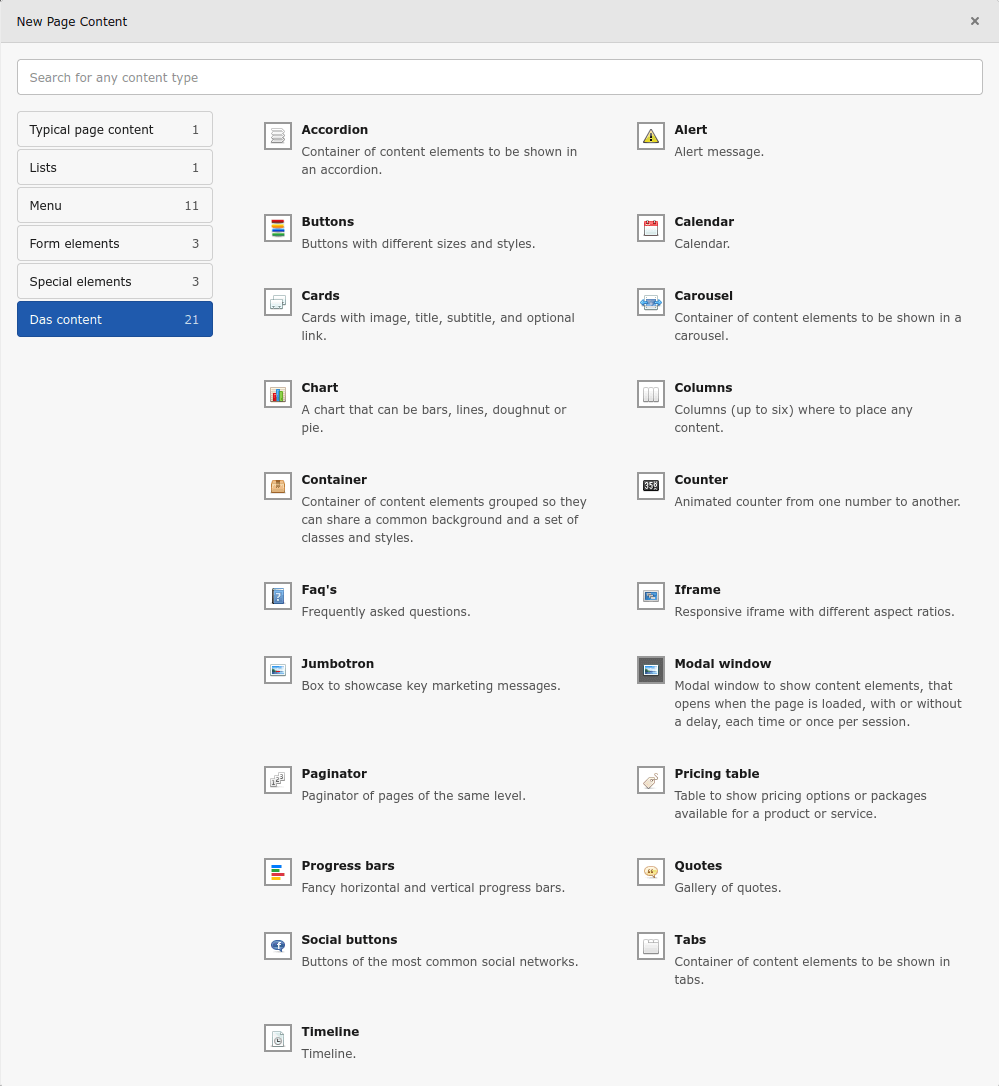
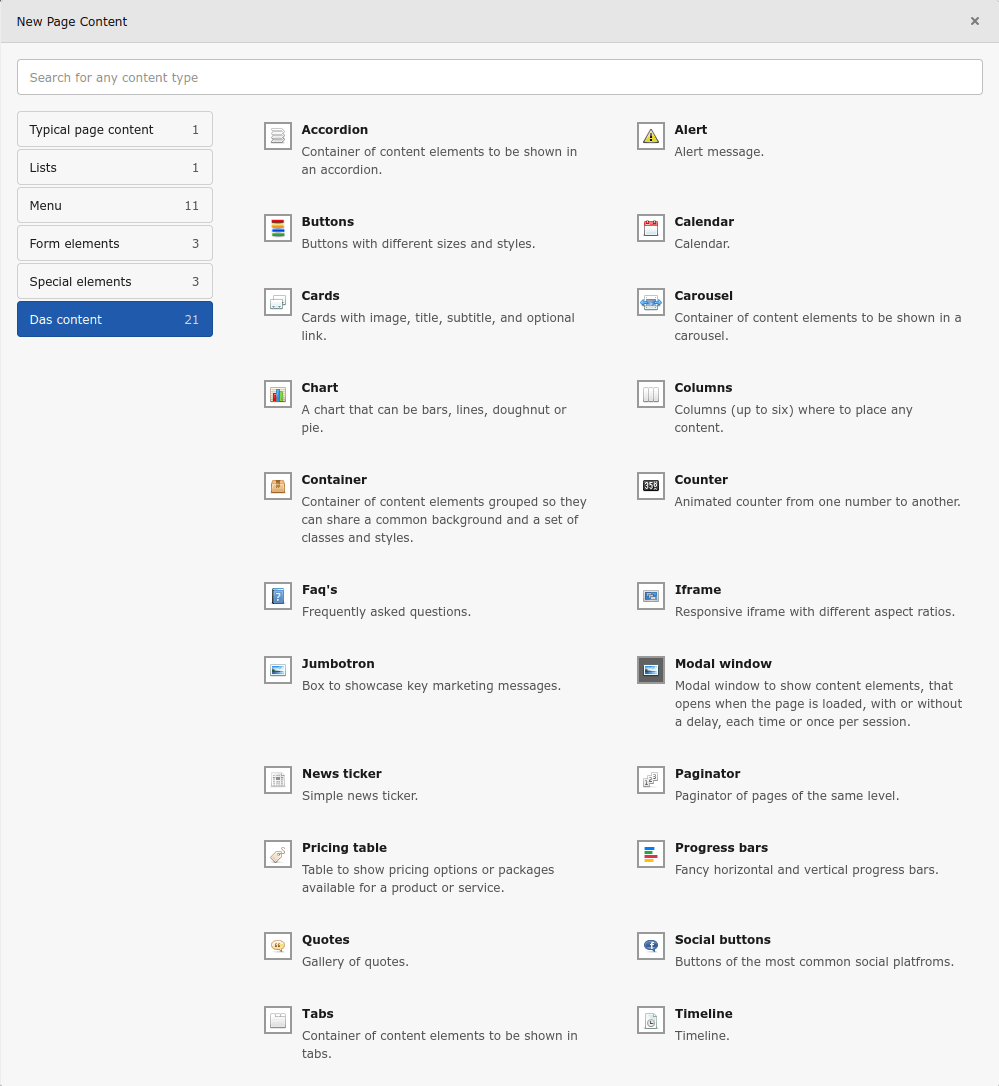
[TASK] News ticker content element

diff --git a/Resources/Private/Templates/Content/NewsTicker.html b/Resources/Private/Templates/Content/NewsTicker.html
@@ -1,0 +1,173 @@
+<f:layout name="Content" />
+
+<f:section name="Configuration">
+    <flux:form
+        id="NewsTiicker"
+        label="LLL:EXT:das/Resources/Private/Language/locallang_be.xlf:tt_content.newsticker"
+        description="LLL:EXT:das/Resources/Private/Language/locallang_be.xlf:tt_content.newsticker.description"
+    >
+        <flux:form.option.group
+            value="dasContent"
+        />
+        <flux:form.option.icon
+            value="EXT:das/Resources/Public/Icons/Content/NewsTicker.png"
+        />
+        <flux:field.select
+            name="layout"
+            label="LLL:EXT:das/Resources/Private/Language/locallang_be.xlf:layout"
+            items="{
+                0:{0: 'LLL:EXT:das/Resources/Private/Language/locallang_be.xlf:default', 1: '0'}
+            }"
+            requestUpdate="1"
+        />
+        <flux:field.select
+            name="transition"
+            label="LLL:EXT:das/Resources/Private/Language/locallang_be.xlf:tt_content.newsticker.transition"
+            items="{
+                0:{0: 'LLL:EXT:das/Resources/Private/Language/locallang_be.xlf:tt_content.newsticker.transition.0', 1: '0'},
+                1:{0: 'LLL:EXT:das/Resources/Private/Language/locallang_be.xlf:tt_content.newsticker.transition.1', 1: '1'}
+            }"
+            default=""
+            showIconTable="1"
+        />
+        <flux:field.input
+            name="interval"
+            label="LLL:EXT:das/Resources/Private/Language/locallang_be.xlf:tt_content.newsticker.interval"
+            size="3"
+            config="{eval: 'int', range: {lower: 5, upper: 20}, slider: {step: 1, width: 200}}"
+        />
+        <flux:field.select
+            name="default_color"
+            label="LLL:EXT:das/Resources/Private/Language/locallang_be.xlf:default_color"
+            items="{
+                0:{0: 'LLL:EXT:das/Resources/Private/Language/locallang_be.xlf:colors.primary', 1: 'primary', 2: 'EXT:das/Resources/Public/Images/Colors/bg_primary.svg'},
+                1:{0: 'LLL:EXT:das/Resources/Private/Language/locallang_be.xlf:colors.secondary', 1: 'secondary', 2: 'EXT:das/Resources/Public/Images/Colors/bg_secondary.svg'},
+                2:{0: 'LLL:EXT:das/Resources/Private/Language/locallang_be.xlf:colors.success', 1: 'success', 2: 'EXT:das/Resources/Public/Images/Colors/bg_success.svg'},
+                3:{0: 'LLL:EXT:das/Resources/Private/Language/locallang_be.xlf:colors.danger', 1: 'danger', 2: 'EXT:das/Resources/Public/Images/Colors/bg_danger.svg'},
+                4:{0: 'LLL:EXT:das/Resources/Private/Language/locallang_be.xlf:colors.warning', 1: 'warning', 2: 'EXT:das/Resources/Public/Images/Colors/bg_warning.svg'},
+                5:{0: 'LLL:EXT:das/Resources/Private/Language/locallang_be.xlf:colors.info', 1: 'info', 2: 'EXT:das/Resources/Public/Images/Colors/bg_info.svg'},
+                6:{0: 'LLL:EXT:das/Resources/Private/Language/locallang_be.xlf:colors.light', 1: 'light', 2: 'EXT:das/Resources/Public/Images/Colors/bg_light.svg'},
+                7:{0: 'LLL:EXT:das/Resources/Private/Language/locallang_be.xlf:colors.dark', 1: 'dark', 2: 'EXT:das/Resources/Public/Images/Colors/bg_dark.svg'}
+            }"
+            default=""
+            showIconTable="1"
+        />
+        <flux:form.sheet
+            name="itemstab"
+            label="LLL:EXT:das/Resources/Private/Language/locallang_be.xlf:tt_content.newsticker.news"
+        >
+            <flux:form.section
+                name="items"
+                label="LLL:EXT:das/Resources/Private/Language/locallang_be.xlf:tt_content.newsticker.news"
+            >
+                <flux:form.object
+                    name="item"
+                    label="LLL:EXT:das/Resources/Private/Language/locallang_be.xlf:tt_content.newsticker.news"
+                >
+                    <f:render partial="Content/Access" arguments="{_all}" />
+                    <flux:field.input
+                        name="header"
+                        label="LLL:EXT:das/Resources/Private/Language/locallang_be.xlf:tt_content.newsticker.header"
+                        required="1"
+                    />
+                    <flux:field.input
+                        name="date"
+                        label="LLL:EXT:das/Resources/Private/Language/locallang_be.xlf:tt_content.newsticker.date"
+                        config="{renderType: 'datetime', format: 'datetime'}"
+                        required="1"
+                    />
+                    <flux:field.text
+                        name="text"
+                        label="LLL:EXT:das/Resources/Private/Language/locallang_be.xlf:tt_content.newsticker.text"
+                        rows="2"
+                        required="1"
+                    />
+                    <flux:field.select
+                        name="color"
+                        label="LLL:EXT:das/Resources/Private/Language/locallang_be.xlf:color"
+                        items="{
+                            0:{0: 'LLL:EXT:das/Resources/Private/Language/locallang_be.xlf:default', 1: '', 2: 'EXT:das/Resources/Public/Images/Colors/bg_.svg'},
+                            1:{0: 'LLL:EXT:das/Resources/Private/Language/locallang_be.xlf:colors.primary', 1: 'primary', 2: 'EXT:das/Resources/Public/Images/Colors/bg_primary.svg'},
+                            2:{0: 'LLL:EXT:das/Resources/Private/Language/locallang_be.xlf:colors.secondary', 1: 'secondary', 2: 'EXT:das/Resources/Public/Images/Colors/bg_secondary.svg'},
+                            3:{0: 'LLL:EXT:das/Resources/Private/Language/locallang_be.xlf:colors.success', 1: 'success', 2: 'EXT:das/Resources/Public/Images/Colors/bg_success.svg'},
+                            4:{0: 'LLL:EXT:das/Resources/Private/Language/locallang_be.xlf:colors.danger', 1: 'danger', 2: 'EXT:das/Resources/Public/Images/Colors/bg_danger.svg'},
+                            5:{0: 'LLL:EXT:das/Resources/Private/Language/locallang_be.xlf:colors.warning', 1: 'warning', 2: 'EXT:das/Resources/Public/Images/Colors/bg_warning.svg'},
+                            6:{0: 'LLL:EXT:das/Resources/Private/Language/locallang_be.xlf:colors.info', 1: 'info', 2: 'EXT:das/Resources/Public/Images/Colors/bg_info.svg'},
+                            7:{0: 'LLL:EXT:das/Resources/Private/Language/locallang_be.xlf:colors.light', 1: 'light', 2: 'EXT:das/Resources/Public/Images/Colors/bg_light.svg'},
+                            8:{0: 'LLL:EXT:das/Resources/Private/Language/locallang_be.xlf:colors.dark', 1: 'dark', 2: 'EXT:das/Resources/Public/Images/Colors/bg_dark.svg'}
+                        }"
+                        showIconTable="1"
+                    />
+                    <flux:field.input
+                        name="link"
+                        label="LLL:EXT:das/Resources/Private/Language/locallang_be.xlf:tt_content.newsticker.link"
+                        config="{renderType: 'inputLink'}"
+                    />
+                </flux:form.object>
+            </flux:form.section>
+        </flux:form.sheet>
+    </flux:form>
+</f:section>
+
+<f:section name="Preview">
+    <table class="table table-condensed table-hover">
+        <tbody>
+            <tr>
+                <th>
+                    <f:translate key="LLL:EXT:das/Resources/Private/Language/locallang_be.xlf:layout" />
+                </th>
+                <td width="20%">
+                    <f:if condition="{layout} == 0">
+                        <f:then>
+                            <f:translate key="LLL:EXT:das/Resources/Private/Language/locallang_be.xlf:default" />
+                        </f:then>
+                        <f:else>
+                            <f:translate key="LLL:EXT:das/Resources/Private/Language/locallang_be.xlf:custom" />
+                        </f:else>
+                    </f:if>
+                </td>
+            </tr>
+            <tr>
+                <th>
+                    <f:translate key="LLL:EXT:das/Resources/Private/Language/locallang_be.xlf:default_color" />
+                </th>
+                <td>
+                    <f:image src="EXT:das/Resources/Public/Images/Colors/bg_{default_color}.svg" width="20" height="20" alt="{f:translate(key: 'LLL:EXT:das/Resources/Private/Language/locallang_be.xlf:colors.{default_color}')}" class="d-inline-block me-1 mb-1" />
+                </td>
+            </tr>
+            <tr>
+                <th>
+                    <f:translate key="LLL:EXT:das/Resources/Private/Language/locallang_be.xlf:tt_content.newsticker.transition" />
+                </th>
+                <td>
+                    <f:translate key="LLL:EXT:das/Resources/Private/Language/locallang_be.xlf:tt_content.newsticker.transition.{transition}" />
+                </td>
+            </tr>
+            <tr>
+                <th>
+                    <f:translate key="LLL:EXT:das/Resources/Private/Language/locallang_be.xlf:tt_content.newsticker.interval" />
+                </th>
+                <td>
+                    {interval}
+                </td>
+            </tr>
+            <tr>
+                <td colspan="2">
+                    <strong><f:translate key="LLL:EXT:das/Resources/Private/Language/locallang_be.xlf:tt_content.newsticker.newsticker" /></strong>
+                    <ul class="mt-2">
+                        <f:for each="{items}" as="item">                        
+                            <li{f:if(condition: '!{item.item.active}', then: ' class="text-muted"')}>
+                                <f:image src="EXT:das/Resources/Public/Images/Colors/bg_{f:if(condition: '{item.item.color}', then: '{item.item.color}', else: '{default_color}')}.svg" width="20" height="20" alt="{f:translate(key: 'LLL:EXT:das/Resources/Private/Language/locallang_be.xlf:{f:if(condition: \'{item.item.color}\', then: \'colors.{item.item.color}\', else: \'default\')}')}" class="d-inline-block me-1 mb-1" />
+                                <strong>{item.item.header}</strong> (<f:format.date format="%B %e, %Y %H:%M">{item.item.date}</f:format.date>) {item.item.text} 
+                            </li>
+                        </f:for>
+                    </ul>
+                </td>
+            </tr>
+        </tbody>
+    </table>
+</f:section>
+
+<f:section name="Main">
+    <f:render partial="Content/Main/NewsTicker" arguments="{_all}" />
+</f:section>

diff --git a/Resources/Private/Partials/Content/Main/NewsTicker.html b/Resources/Private/Partials/Content/Main/NewsTicker.html
@@ -1,0 +1,27 @@
+<f:if condition="{items}">    
+    <div class="tx-das-content-newsticker tx-das-content-newsticker-layout-{layout}" id="tx-das-content-newsticker-{record.uid}" data-id="c{record.uid}">
+        <div id="carousel-{record.uid}" class="carousel slide{f:if(condition: '{transition}', then: ' carousel-fade')}" data-bs-ride="carousel" data-bs-interval="{interval}000">
+            <div class="carousel-inner d-flex">
+                <f:for each="{items}" as="item" iteration="iteration">
+                    <div class="carousel-item h-100 {f:if(condition: '{iteration.isFirst}', then: ' active')}">
+                        <f:variable name="color" value="{f:if(condition: '{item.color}', then: '{item.color}', else: '{default_color}')}" />
+                        <figure class="note note-primary p-4 rounded-2 border-{color}">
+                            <h3>
+                                {item.header}
+                            </h3>
+                            <p class="small">
+                                <f:format.date format="%B %e, %Y %H:%M">{item.date}</f:format.date>
+                            </p>
+                            <p class="pb-2">
+                                <f:format.nl2br>{item.text}</f:format.nl2br>
+                                <f:if condition="{item.link}">
+                                    <f:link.typolink parameter="{item.link}"><i class="fa-solid fa-circle-arrow-right"></i></f:link.typolink>
+                                </f:if>
+                            </p>
+                        </figure>
+                    </div>
+                </f:for>
+            </div>
+        </div>
+    </div>
+</f:if>

diff --git a/Resources/Public/Css/css.css b/Resources/Public/Css/css.css
@@ -608,9 +608,10 @@ audio {
     }
 }
 
-/* Quotes */
+/* Quotes, Newsticker */
 
-.tx-das-content-quotes figure {
+.tx-das-content-quotes figure, 
+.tx-das-content-newsticker figure {
     border-left: .35rem solid;
     border-top: 1px solid #eee !important;
     border-right: 1px solid #eee !important;

diff --git a/Documentation/EditorsManual/DasContentElements.rst b/Documentation/EditorsManual/DasContentElements.rst
@@ -3,7 +3,7 @@
 Das content elements
 ====================
 
-**Das** comes with a set of ready to use content elements, which cover a wide range of options: Accordion, Alert, Buttons, Calendar, Cards, Carousel, Chart, Columns, Container, Counter, Faq's, Iframe, Jumbotron, Modal window, Paginator, Pricing table, Progress bars, Quotes, Social buttons, Tabs, and Timeline.
+**Das** comes with a set of ready to use content elements, which cover a wide range of options: Accordion, Alert, Buttons, Calendar, Cards, Carousel, Chart, Columns, Container, Counter, Faq's, Iframe, Jumbotron, Modal window, News ticker, Paginator, Pricing table, Progress bars, Quotes, Social buttons, Tabs, and Timeline.
 
 .. figure:: ../Images/dasce-1.png
    :width: 999px
